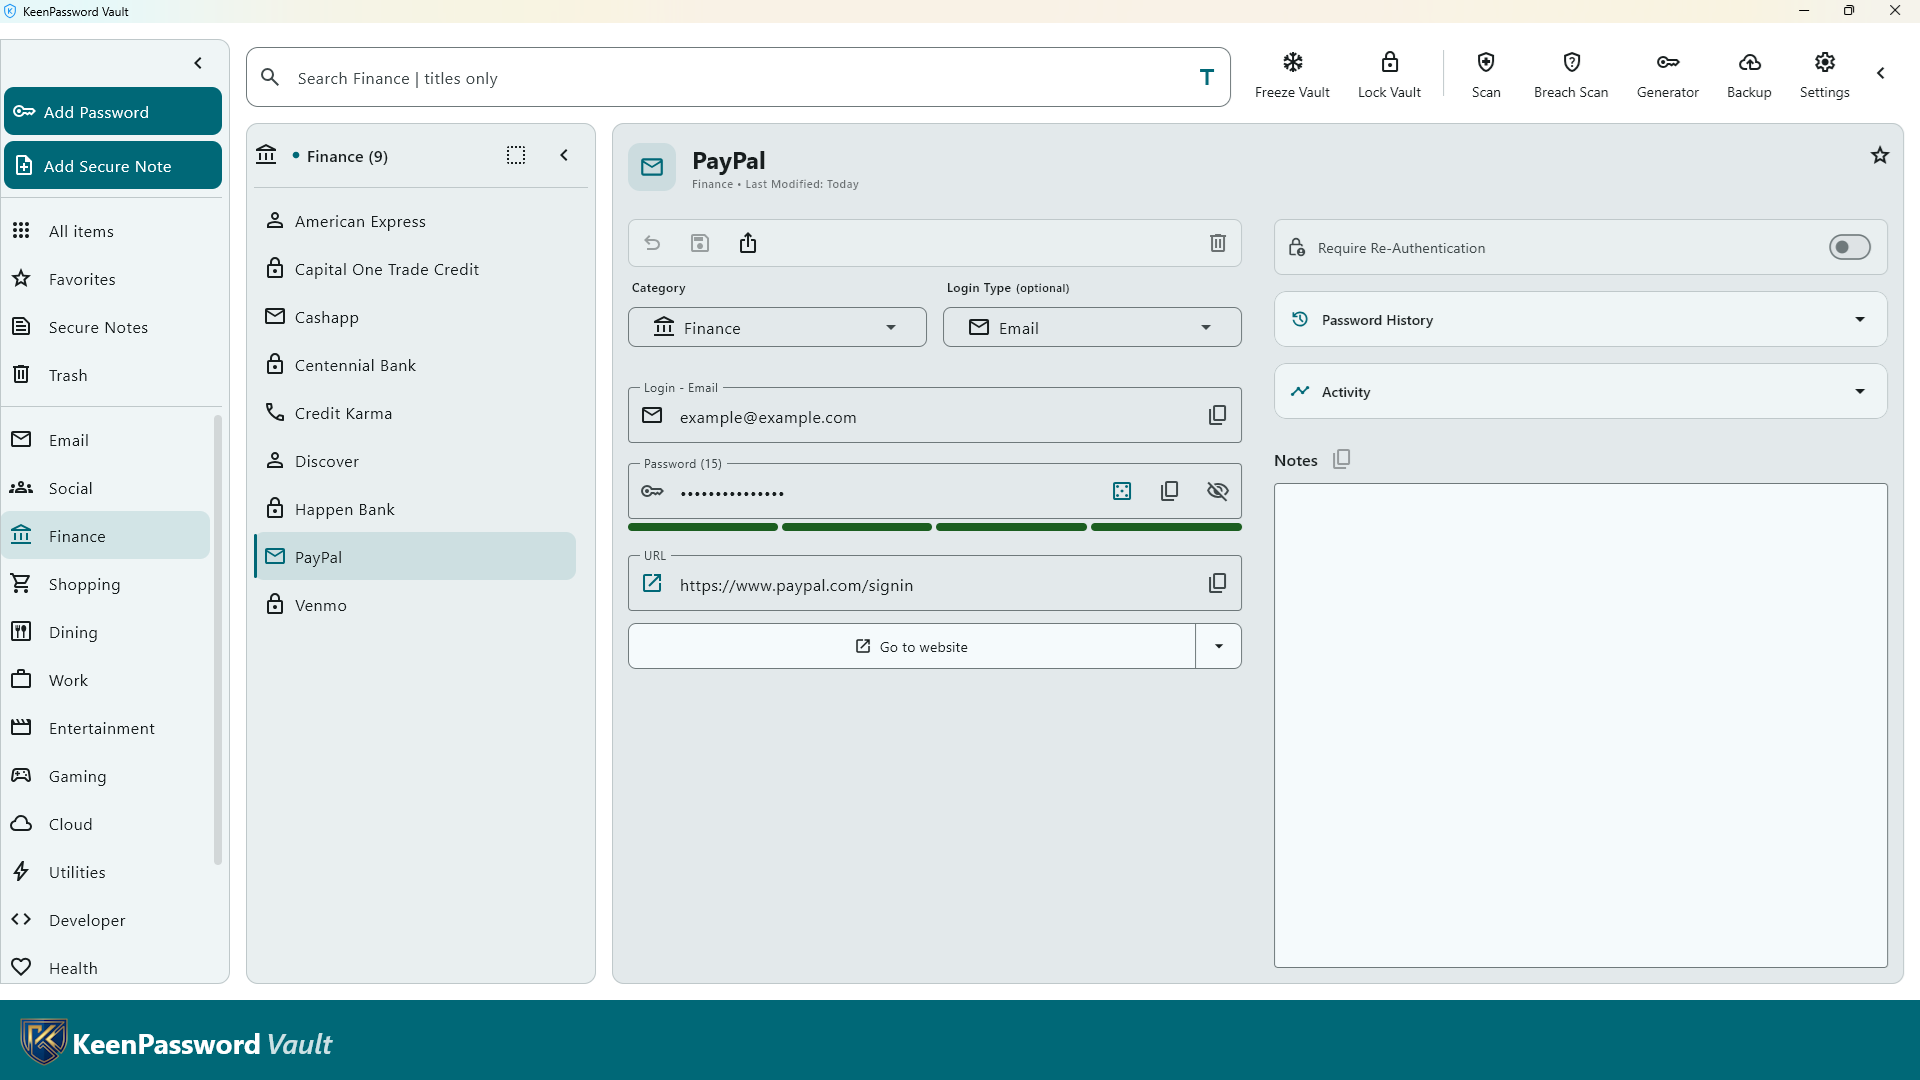
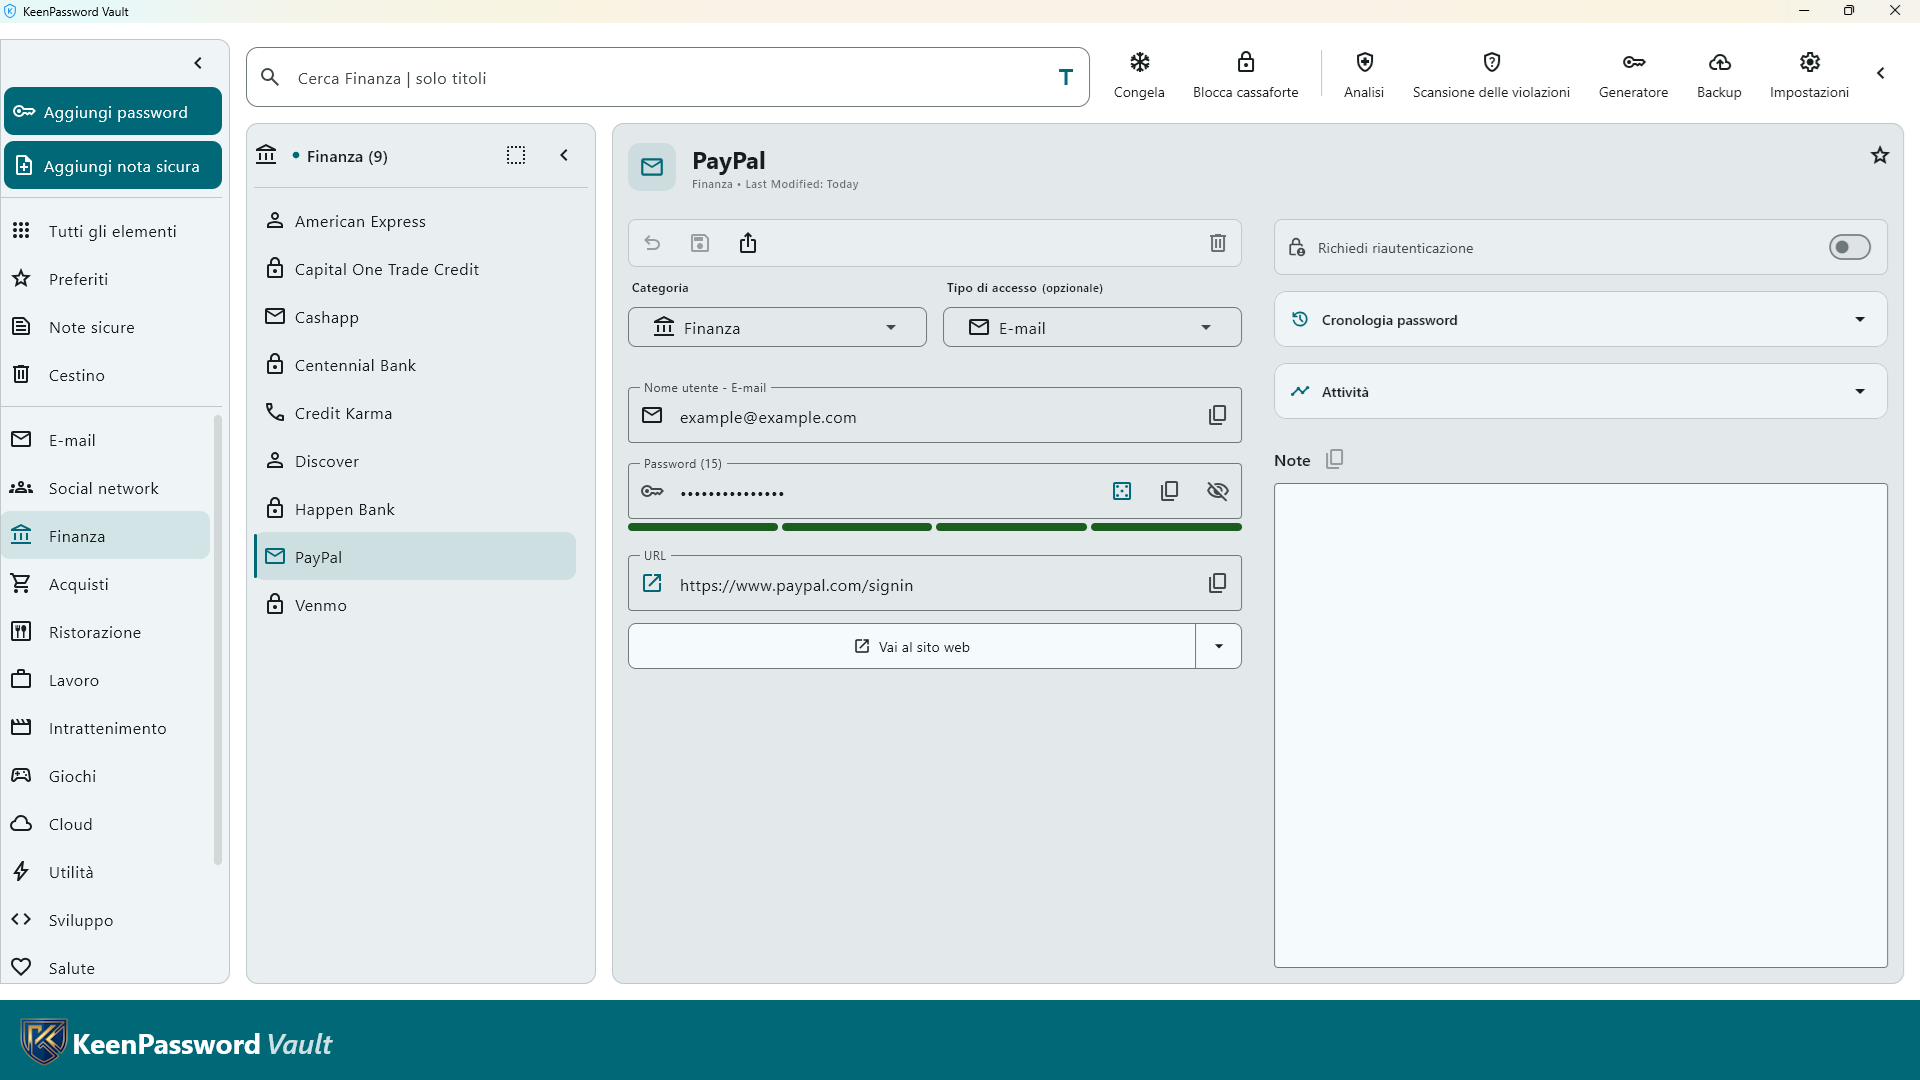
added italian screenshots

diff --git a/it/index.html b/it/index.html
@@ -88,10 +88,10 @@
           <div class="glow"></div>
 
           <button class="screenshot-button hero-screenshot-button" type="button"
-            data-image="../images/main_screenshot.png"
+            data-image="/images/it/main_screenshot.png"
             data-alt="KeenPassword Vault con il vault delle password sbloccato"
             aria-label="Visualizza lo screenshot di KeenPassword Vault a schermo intero">
-            <img src="../images/main_screenshot.png" alt="KeenPassword Vault con il vault delle password sbloccato"
+            <img src="/images/it/main_screenshot.png" alt="KeenPassword Vault con il vault delle password sbloccato"
               class="hero-screenshot">
           </button>
 
